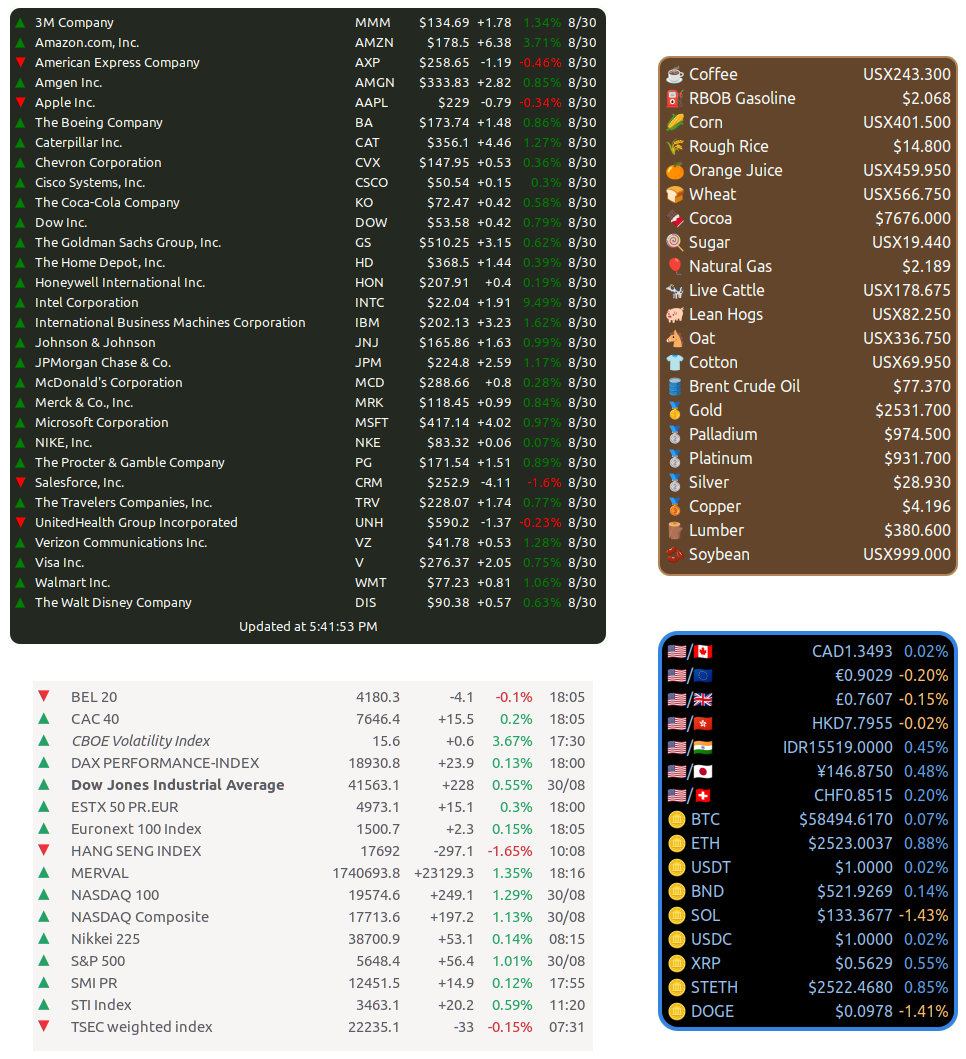
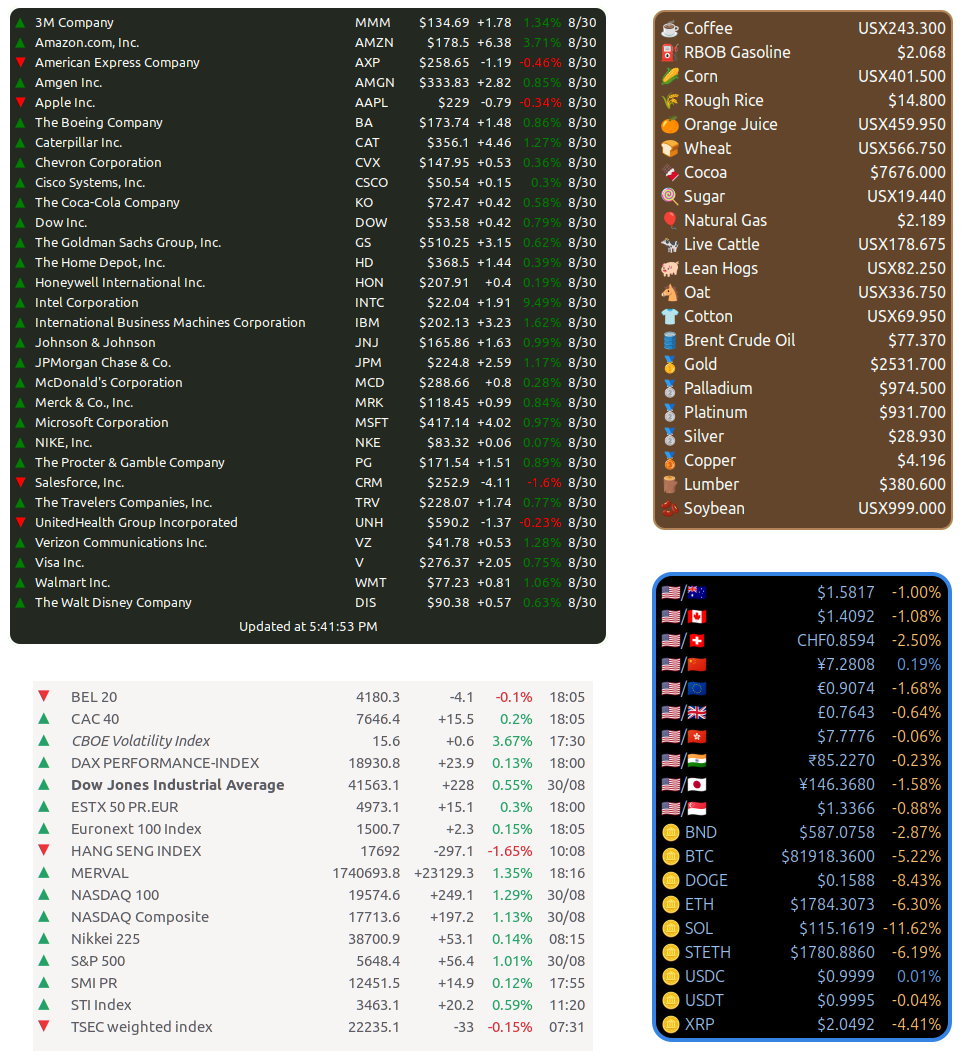
add many more currency symbols

Changed region(s): [[0.6522, 0.0, 0.9938, 0.9972]]

diff --git a/files/yfquotes@thegli/desklet.js b/files/yfquotes@thegli/desklet.js
@@ -495,13 +495,32 @@ QuotesTable.prototype = {
     constructor: QuotesTable,
     quoteUtils: new YahooFinanceQuoteUtils(),
     currencyCodeToSymbolMap: {
-        USD: "$",
-        EUR: "\u20AC",
-        JPY: "\u00A5",
-        GBP: "\u00A3",
-        INR: "\u20A8",
-        UAH: "\u20B4",
-        RUB: "\u20BD"
+        AED: "\u062F.\u0625", AFN: "\u060B", ALL: "Lek", AMD: "\u058F", ANG: "\u0192", AOA: "Kz", ARS: "$", AUD: "$", AWG: "\u0192", AZN: "\u20BC",
+        BAM: "KM", BBD: "$", BDT: "\u09F3", BGN: "\u043B\u0432", BHD: "\u062F.\u0628", BIF: "FBu", BMD: "$", BND: "$", BOB: "Bs", BRL: "R$", BSD: "$", BTN: "Nu.", BWP: "P", BYN: "Br", BZD: "BZ$",
+        CAD: "$", CDF: "FC", CHF: "CHF", CLP: "$", CNY: "\u00A5", COP: "$", CRC: "\u20A1", CUP: "\u20B1", CVE: "Esc", CZK: "K\u010D",
+        DJF: "Fdj", DKK: "kr", DOP: "RD$", DZD: "\u062F.\u062C",
+        EGP: "\u00A3", ERN: "Nfk", EUR: "\u20AC",
+        FJD: "$", FKP: "\u00A3",
+        GBP: "\u00A3", GEL: "\u20BE", GGP: "\u00A3", GHS: "\u00A2", GIP: "\u00A3", GMD: "D", GNF: "FG", GTQ: "Q", GYD: "$",
+        HKD: "$", HNL: "L", HTG: "G", HUF: "Ft",
+        IDR: "Rp", ILS: "\u20AA", IMP: "\u00A3", INR: "\u20B9", IQD: "\u0639.\u062F", IRR: "\uFDFC", ISK: "kr",
+        JEP: "\u00A3", JMD: "J$", JOD: "\u062F.\u0623", JPY: "\u00A5",
+        KES: "KSh", KGS: "\u20C0", KHR: "\u17DB", KMF: "CF", KPW: "\u20A9", KRW: "\u20A9", KWD: "\u062F.\u0643", KYD: "$", KZT: "\u20B8",
+        LAK: "\u20AD", LBP: "\u00A3", LKR: "\u20A8", LRD: "$", LSL: "L", LYD: "\u0644.\u062F",
+        MAD: ".\u062F.\u0645", MDL: "L", MGA: "Ar", MKD: "\u0434\u0435\u043D", MMK: "K", MNT: "\u20AE", MOP: "P", MRU: "UM", MUR: "\u20A8", MVR: "Rf", MWK: "K", MXN: "$", MYR: "RM", MZN: "MT",
+        NAD: "$", NGN: "\u20A6", NIO: "C$", NOK: "kr", NPR: "\u20A8", NZD: "$",
+        OMR: "\uFDFC",
+        PAB: "B/.", PEN: "S/", PGK: "K", PHP: "\u20B1", PKR: "\u20A8", PLN: "z\u0142", PYG: "Gs",
+        QAR: "\uFDFC",
+        RON: "lei", RSD: "\u0414\u0438\u043D", RUB: "\u20BD", RWF: "FRw",
+        SAR: "\uFDFC", SBD: "$", SCR: "\u20A8", SDG: "\u062C.\u0633", SEK: "kr", SGD: "$", SHP: "\u00A3", SLE: "Le", SOS: "S", SRD: "$", SSP: "SSP", SVC: "$", SYP: "\u00A3", SZL: "L",
+        THB: "\u0E3F", TJS: "SM", TMT: "T", TND: "\u062F.\u062A", TOP: "T$", TRY: "\u20BA", TTD: "TT$", TVD: "$", TWD: "NT$", TZS: "T",
+        UAH: "\u20B4", UGX: "USh", USD: "$", UYU: "$U", UZS: "\u043B\u0432",
+        VEF: "Bs", VND: "\u20AB", VUV: "Vt",
+        WST: "T",
+        XAF: "F", XCD: "$", XOF: "F", XPF: "F",
+        YER: "\uFDFC",
+        ZAR: "R", ZMW: "K", ZWG: "ZK"
     },
     quoteChangeSymbolMap: {
         UP: "\u25B2",

diff --git a/CHANGELOG.md b/CHANGELOG.md
@@ -1,3 +1,14 @@
+### 0.15.6 - April 3, 2025
+
+Features:
+
+- add symbols for most currencies
+- update Finnish translation (courtesy of [MahtiAnkka](https://github.com/MahtiAnkka))
+
+Bugfixes:
+
+- fix currency symbol for INR
+
 ### 0.15.5 - March 18, 2025
 
 Features:
